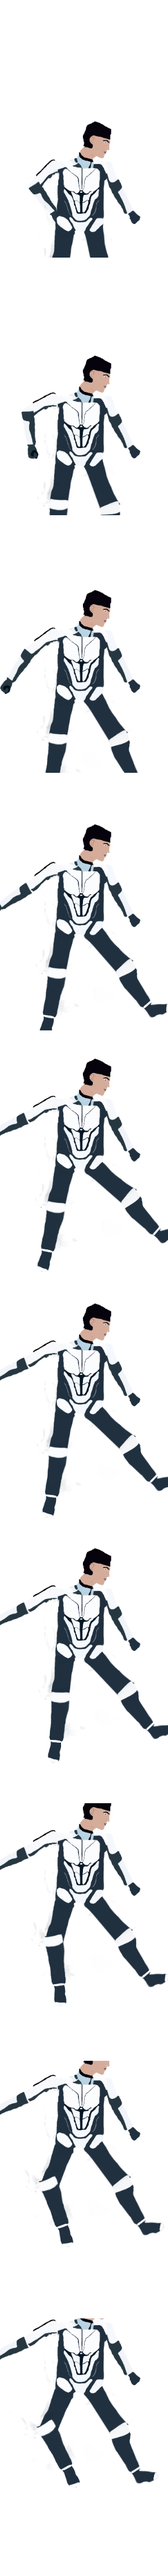
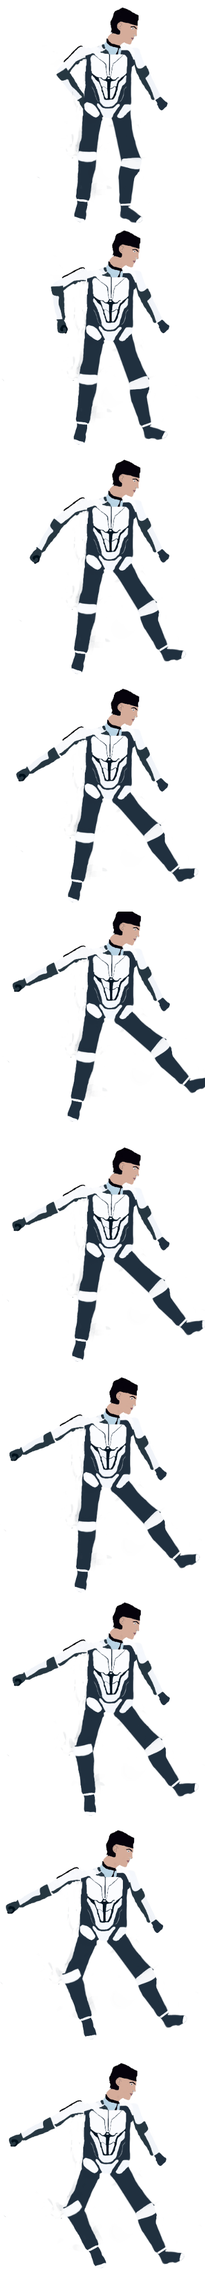
Progress in jump

diff --git a/js/fighter.js b/js/fighter.js
@@ -53,7 +53,16 @@ class Fighter {
       [ANIM_PUNCH]: 10,
       [ANIM_DEATH]: 7
     };
-
+    this.frameHeight = {
+      [ANIM_IDLE]: 382,
+      [ANIM_WALK_FORWARD]: 382,
+      [ANIM_WALK_BACKWARD]: 383,
+      [ANIM_CROUCH]: 383,
+      [ANIM_JUMP]: 407,
+      [ANIM_KICK]: 12,
+      [ANIM_PUNCH]: 10,
+      [ANIM_DEATH]: 7
+    };
     this.x = initialX;
     this.y = initialY;
     this.speedY = 0;
@@ -88,10 +97,10 @@ class Fighter {
 	}
 		
     let image = this.images[this.currentAnimation];
-    let frameW = this.frameWidth;
+    let frameW = image.width; // this.frameWidth;
     let frameH = this.frameHeight;
 
-    context.drawImage(image, 0, frameH * this.frameNum, frameW, frameH, this.x, this.y, frameW, frameH);
+    context.drawImage(image, 0, frameH * this.frameNum, frameW, frameH, this.x - frameW/2, this.y, frameW, frameH);
   }
 
   update(canvasWidth) {
@@ -200,6 +209,7 @@ class Fighter {
       this.currentAnimation = ANIM_JUMP;
       this.frameNum = 0;
       this.timeTillNextFrame = 1 / ANIM_FPS;
+	  this.speedY = JUMP_POWER;
     }
   }
 

diff --git a/Source_Art/DragoneBones_NotForItch_PlayerJump/ImageLoading.js b/Source_Art/DragoneBones_NotForItch_PlayerJump/ImageLoading.js
@@ -21,12 +21,12 @@ window.onload = function() {
 
 function loadingDoneSoStartGame() {
   var scaleBy = 0.2;
-  var dimW = 1500;
-  var dimH = 2300;
+  var dimW = 1839;
+  var dimH = 2035;
   var scaleW = dimW * scaleBy;
   var scaleH = dimH * scaleBy;
-  var cornerX = 1878;
-  var cornerY = 1696;
+  var cornerX = 1630;
+  var cornerY = 2712;
   canvas.width = scaleW*animFacings;
   canvas.height = scaleH*animFrames;
 
